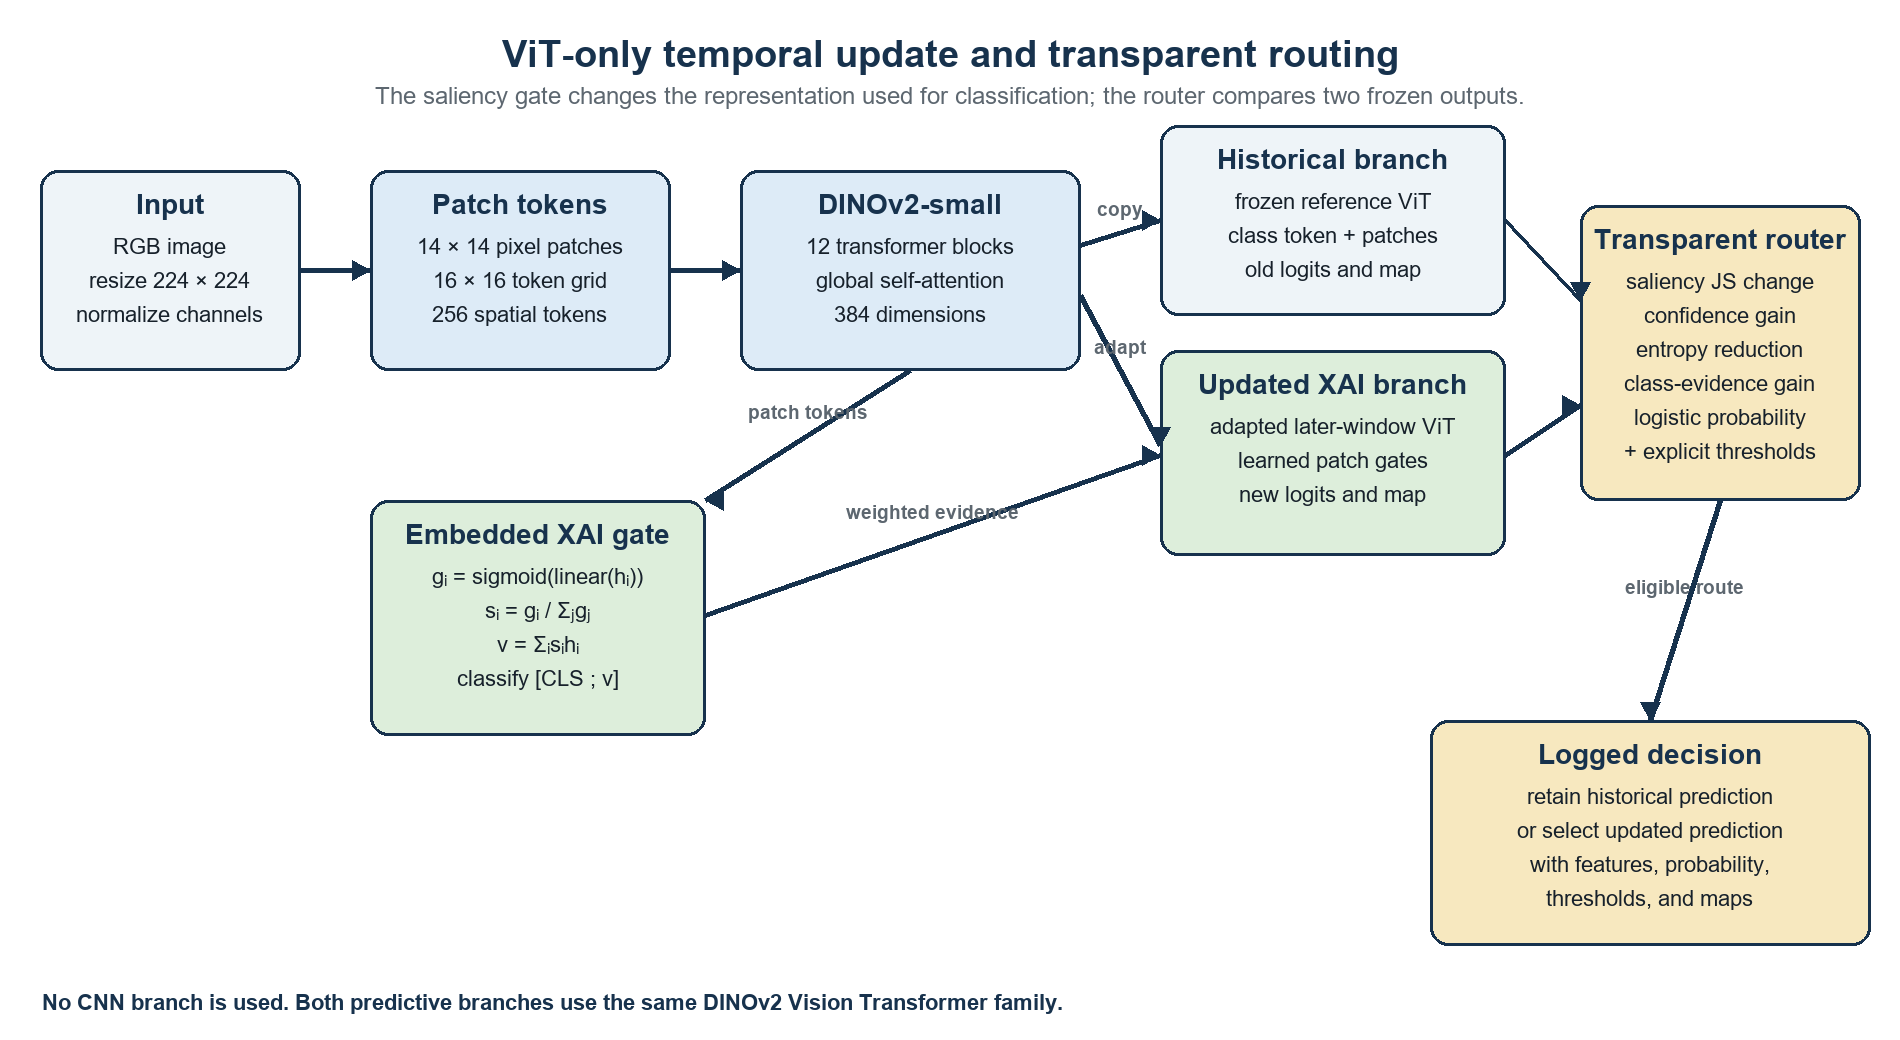
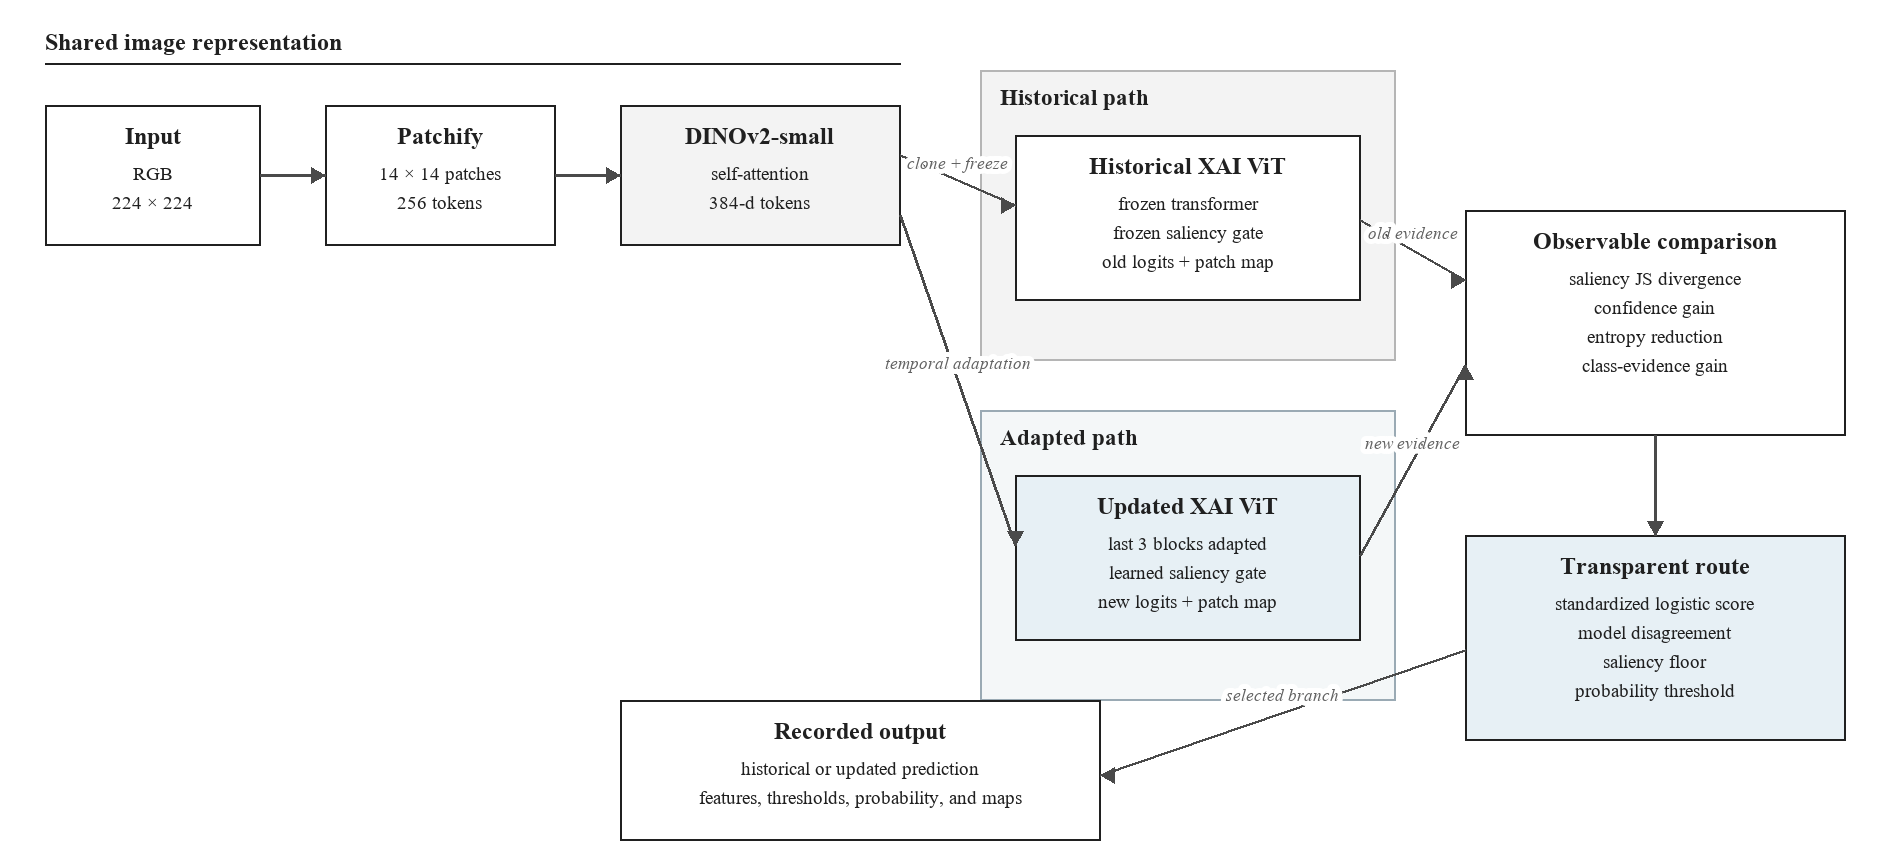
Refine figures and log drift evaluation

diff --git a/scripts/build_architecture_diagram.py b/scripts/build_architecture_diagram.py
@@ -1,74 +1,91 @@
-"""Build the paper's ViT-only architecture overview as a high-resolution PNG."""
+"""Build a restrained, publication-style architecture schematic."""
 from pathlib import Path
 
 from PIL import Image, ImageDraw, ImageFont
 
 
 OUTPUT = Path(__file__).resolve().parents[1] / "reports" / "transparent_router" / "architecture_overview.png"
-NAVY = "#17324D"
-BLUE = "#DDEBF7"
-PALE = "#EEF4F8"
-GREEN = "#DDEEDB"
-GOLD = "#F7E8BF"
-GRAY = "#5D6770"
+INK = "#202020"
+MID = "#626262"
+LINE = "#4A4A4A"
+LANE = "#F3F3F3"
+XAI = "#E7F0F5"
 
 
-def font(size, bold=False):
-    name = "arialbd.ttf" if bold else "arial.ttf"
+def font(size, bold=False, italic=False):
+    if bold:
+        name = "timesbd.ttf"
+    elif italic:
+        name = "timesi.ttf"
+    else:
+        name = "times.ttf"
     return ImageFont.truetype(f"C:/Windows/Fonts/{name}", size)
 
 
-def box(draw, xy, title, lines, fill):
-    draw.rounded_rectangle(xy, radius=18, fill=fill, outline=NAVY, width=3)
+def text_center(draw, xy, value, size=22, bold=False, fill=INK):
+    draw.text(xy, value, font=font(size, bold=bold), fill=fill, anchor="mm")
+
+
+def box(draw, xy, title, lines=(), fill="white", width=2):
+    draw.rectangle(xy, fill=fill, outline=INK, width=width)
     x1, y1, x2, _ = xy
-    draw.text(((x1 + x2) / 2, y1 + 18), title, font=font(28, True), fill=NAVY, anchor="ma")
-    for offset, line in enumerate(lines):
-        draw.text(((x1 + x2) / 2, y1 + 64 + offset * 34), line, font=font(22), fill="#17212B", anchor="ma")
+    text_center(draw, ((x1 + x2) / 2, y1 + 31), title, 24, True)
+    for row, line in enumerate(lines):
+        text_center(draw, ((x1 + x2) / 2, y1 + 69 + row * 29), line, 19)
 
 
 def arrow(draw, start, end, label=None):
-    draw.line((start, end), fill=NAVY, width=5)
+    draw.line((start, end), fill=LINE, width=3)
     ex, ey = end
     sx, sy = start
     if abs(ex - sx) >= abs(ey - sy):
         sign = 1 if ex > sx else -1
-        draw.polygon([(ex, ey), (ex - sign * 18, ey - 10), (ex - sign * 18, ey + 10)], fill=NAVY)
+        draw.polygon([(ex, ey), (ex - sign * 14, ey - 8), (ex - sign * 14, ey + 8)], fill=LINE)
     else:
         sign = 1 if ey > sy else -1
-        draw.polygon([(ex, ey), (ex - 10, ey - sign * 18), (ex + 10, ey - sign * 18)], fill=NAVY)
+        draw.polygon([(ex, ey), (ex - 8, ey - sign * 14), (ex + 8, ey - sign * 14)], fill=LINE)
     if label:
-        draw.text(((sx + ex) / 2, (sy + ey) / 2 - 16), label, font=font(19, True), fill=GRAY, anchor="ms")
+        draw.text(((sx + ex) / 2, (sy + ey) / 2 - 11), label,
+                  font=font(17, italic=True), fill=MID, anchor="ms",
+                  stroke_width=5, stroke_fill="white")
 
 
 def main():
-    image = Image.new("RGB", (1900, 1040), "white")
+    image = Image.new("RGB", (1900, 865), "white")
     draw = ImageDraw.Draw(image)
-    draw.text((950, 32), "ViT-only temporal update and transparent routing", font=font(38, True), fill=NAVY, anchor="ma")
-    draw.text((950, 82), "The saliency gate changes the representation used for classification; the router compares two frozen outputs.", font=font(24), fill=GRAY, anchor="ma")
 
-    box(draw, (40, 170, 300, 370), "Input", ["RGB image", "resize 224 × 224", "normalize channels"], PALE)
-    box(draw, (370, 170, 670, 370), "Patch tokens", ["14 × 14 pixel patches", "16 × 16 token grid", "256 spatial tokens"], BLUE)
-    box(draw, (740, 170, 1080, 370), "DINOv2-small", ["12 transformer blocks", "global self-attention", "384 dimensions"], BLUE)
-    arrow(draw, (300, 270), (370, 270))
-    arrow(draw, (670, 270), (740, 270))
+    draw.text((45, 28), "Shared image representation", font=font(24, True), fill=INK)
+    draw.line((45, 63, 900, 63), fill=INK, width=2)
+    box(draw, (45, 105, 260, 245), "Input", ("RGB", "224 × 224"))
+    box(draw, (325, 105, 555, 245), "Patchify", ("14 × 14 patches", "256 tokens"))
+    box(draw, (620, 105, 900, 245), "DINOv2-small", ("self-attention", "384-d tokens"), fill=LANE)
+    arrow(draw, (260, 175), (325, 175))
+    arrow(draw, (555, 175), (620, 175))
 
-    box(draw, (1160, 125, 1505, 315), "Historical branch", ["frozen reference ViT", "class token + patches", "old logits and map"], PALE)
-    box(draw, (1160, 350, 1505, 555), "Updated XAI branch", ["adapted later-window ViT", "learned patch gates", "new logits and map"], GREEN)
-    arrow(draw, (1080, 245), (1160, 220), "copy")
-    arrow(draw, (1080, 295), (1160, 445), "adapt")
+    draw.rectangle((980, 70, 1395, 360), fill=LANE, outline="#B5B5B5", width=2)
+    draw.text((1000, 84), "Historical path", font=font(23, True), fill=INK)
+    box(draw, (1015, 135, 1360, 300), "Historical XAI ViT",
+        ("frozen transformer", "frozen saliency gate", "old logits + patch map"))
 
-    box(draw, (370, 500, 705, 735), "Embedded XAI gate", ["gᵢ = sigmoid(linear(hᵢ))", "sᵢ = gᵢ / Σⱼgⱼ", "v = Σᵢsᵢhᵢ", "classify [CLS ; v]"], GREEN)
-    arrow(draw, (910, 370), (705, 500), "patch tokens")
-    arrow(draw, (705, 615), (1160, 455), "weighted evidence")
+    draw.rectangle((980, 410, 1395, 700), fill="#F4F7F8", outline="#9AAAB4", width=2)
+    draw.text((1000, 424), "Adapted path", font=font(23, True), fill=INK)
+    box(draw, (1015, 475, 1360, 640), "Updated XAI ViT",
+        ("last 3 blocks adapted", "learned saliency gate", "new logits + patch map"), fill=XAI)
+    arrow(draw, (900, 155), (1015, 205), "clone + freeze")
+    arrow(draw, (900, 215), (1015, 545), "temporal adaptation")
 
-    box(draw, (1580, 205, 1860, 500), "Transparent router", ["saliency JS change", "confidence gain", "entropy reduction", "class-evidence gain", "logistic probability", "+ explicit thresholds"], GOLD)
-    arrow(draw, (1505, 220), (1580, 300))
-    arrow(draw, (1505, 455), (1580, 405))
+    box(draw, (1465, 210, 1845, 435), "Observable comparison",
+        ("saliency JS divergence", "confidence gain", "entropy reduction", "class-evidence gain"))
+    arrow(draw, (1360, 220), (1465, 280), "old evidence")
+    arrow(draw, (1360, 555), (1465, 365), "new evidence")
 
-    box(draw, (1430, 720, 1870, 945), "Logged decision", ["retain historical prediction", "or select updated prediction", "with features, probability,", "thresholds, and maps"], GOLD)
-    arrow(draw, (1720, 500), (1650, 720), "eligible route")
+    box(draw, (1465, 535, 1845, 740), "Transparent route",
+        ("standardized logistic score", "model disagreement", "saliency floor", "probability threshold"), fill=XAI)
+    arrow(draw, (1655, 435), (1655, 535))
 
-    draw.text((42, 990), "No CNN branch is used. Both predictive branches use the same DINOv2 Vision Transformer family.", font=font(22, True), fill=NAVY)
+    box(draw, (620, 700, 1100, 840), "Recorded output",
+        ("historical or updated prediction", "features, thresholds, probability, and maps"))
+    arrow(draw, (1465, 650), (1100, 775), "selected branch")
     OUTPUT.parent.mkdir(parents=True, exist_ok=True)
     image.save(OUTPUT, optimize=True)
     print(OUTPUT)

diff --git a/audit_counterexamples.py b/audit_counterexamples.py
@@ -15,7 +15,7 @@ from pathlib import Path
 
 import numpy as np
 import torch
-from PIL import Image, ImageDraw
+from PIL import Image, ImageDraw, ImageFont
 from torch.utils.data import DataLoader, Dataset
 from tqdm.auto import tqdm
 
@@ -26,7 +26,18 @@ from siamese import ViTTwinRouter
 from transparent_router import FEATURES, apply_policy
 
 
-SALIENCY_OVERLAY_STRENGTH = 0.35
+SALIENCY_OVERLAY_STRENGTH = 0.28
+SALIENCY_COLOR = (213, 94, 0)
+
+
+def figure_font(size=14, bold=False):
+    names = ("timesbd.ttf", "DejaVuSerif-Bold.ttf") if bold else ("times.ttf", "DejaVuSerif.ttf")
+    roots = (Path("C:/Windows/Fonts"), Path("/usr/share/fonts/truetype/dejavu"))
+    for root, name in zip(roots, names):
+        candidate = root / name
+        if candidate.is_file():
+            return ImageFont.truetype(candidate, size)
+    return ImageFont.load_default(size=size)
 
 
 class IndexedDataset(Dataset):
@@ -56,7 +67,7 @@ def overlay(base, weights):
     heat = Image.fromarray((255 * heat / max(float(heat.max()), 1e-8)).astype(np.uint8)).resize(
         base.size, Image.Resampling.BILINEAR)
     return Image.composite(
-        Image.new("RGB", base.size, (255, 20, 20)),
+        Image.new("RGB", base.size, SALIENCY_COLOR),
         base,
         heat.point(lambda value: int(value * SALIENCY_OVERLAY_STRENGTH)),
     )
@@ -113,18 +124,19 @@ def save_panel(path, clean_image, drift_image, comparison, new_salient, new_cont
     shifted_name = row["scenario"].replace("_", " ")
     if row.get("drift_components"):
         shifted_name += ": " + row["drift_components"].replace("+", ", ")
-    names = ("clean", shifted_name, "old saliency", "new saliency",
-             "delete new top 20%", "delete new bottom 20%")
-    canvas = Image.new("RGB", (224 * len(panels), 300), "white")
+    names = ("(a) Clean", f"(b) {shifted_name}", "(c) Historical evidence",
+             "(d) Updated evidence", "(e) Remove top 20%", "(f) Remove bottom 20%")
+    canvas = Image.new("RGB", (224 * len(panels), 316), "white")
     draw = ImageDraw.Draw(canvas)
     for position, (panel, name) in enumerate(zip(panels, names)):
-        canvas.paste(panel, (position * 224, 28))
-        draw.text((position * 224 + 4, 7), name, fill="black")
+        canvas.paste(panel, (position * 224, 30))
+        draw.text((position * 224 + 6, 7), name, font=figure_font(13), fill="black")
     summary = (f"{row['outcome']} | sample {row['dataset_index']} | true {row['true_class']} | "
                f"old {row['old_class']} | new {row['new_class']} | routed {row['routed_class']} | "
                f"p(route) {row['route_probability']:.3f} | JS {row['saliency_js']:.4f} | "
                f"new deletion margin {row['new_faithfulness_margin']:+.3f}")
-    draw.text((4, 258), summary, fill="black")
+    draw.line((0, 258, canvas.width, 258), fill="#BBBBBB", width=1)
+    draw.text((6, 267), summary, font=figure_font(13), fill="black")
     canvas.save(path, optimize=True)
 
 

diff --git a/export_router_report.py b/export_router_report.py
@@ -5,7 +5,7 @@ from pathlib import Path
 
 import numpy as np
 import torch
-from PIL import Image, ImageDraw
+from PIL import Image, ImageDraw, ImageFont
 
 from data import MEAN, STD, open_dataset
 from drift import (REALISTIC_BENCHMARK_SCENARIOS, SCENARIOS, drift_transform,
@@ -15,7 +15,18 @@ from siamese import ViTTwinRouter
 from transparent_router import apply_policy
 
 
-SALIENCY_OVERLAY_STRENGTH = 0.35
+SALIENCY_OVERLAY_STRENGTH = 0.28
+SALIENCY_COLOR = (213, 94, 0)
+
+
+def figure_font(size=14, bold=False):
+    names = ("timesbd.ttf", "DejaVuSerif-Bold.ttf") if bold else ("times.ttf", "DejaVuSerif.ttf")
+    roots = (Path("C:/Windows/Fonts"), Path("/usr/share/fonts/truetype/dejavu"))
+    for root, name in zip(roots, names):
+        candidate = root / name
+        if candidate.is_file():
+            return ImageFont.truetype(candidate, size)
+    return ImageFont.load_default(size=size)
 
 
 def rgb(tensor):
@@ -27,7 +38,7 @@ def overlay(base, weights):
     heat = weights.reshape(16, 16).detach().cpu().numpy()
     heat = Image.fromarray((255 * heat / max(heat.max(), 1e-8)).astype(np.uint8)).resize(base.size)
     return Image.composite(
-        Image.new("RGB", base.size, (255, 25, 25)),
+        Image.new("RGB", base.size, SALIENCY_COLOR),
         base,
         heat.point(lambda value: int(value * SALIENCY_OVERLAY_STRENGTH)),
     )
@@ -72,11 +83,17 @@ def main():
             clean_rgb, shifted_rgb = rgb(clean_image), rgb(image)
             panels = [clean_rgb, shifted_rgb, overlay(shifted_rgb, comparison["old_map"][0]),
                       overlay(shifted_rgb, comparison["new_map"][0])]
-            canvas = Image.new("RGB", (896, 250), "white")
-            names = ("clean", scenario, "old saliency", "new saliency")
+            canvas = Image.new("RGB", (896, 282), "white")
+            names = ("(a) Clean reference", f"(b) {scenario.replace('_', ' ')}",
+                     "(c) Historical evidence", "(d) Updated evidence")
             draw = ImageDraw.Draw(canvas)
             for position, (panel, name) in enumerate(zip(panels, names)):
-                canvas.paste(panel, (position * 224, 26)); draw.text((position * 224 + 4, 5), name, fill="black")
+                canvas.paste(panel, (position * 224, 28))
+                draw.text((position * 224 + 6, 6), name, font=figure_font(14), fill="black")
+            footer = (f"sample {index}   true {int(label)}   old {int(comparison['old_logits'].argmax(1)[0])}   "
+                      f"new {int(comparison['new_logits'].argmax(1)[0])}   routed {int(routed[0])}   "
+                      f"route probability {float(probability[0]):.3f}")
+            draw.text((6, 258), footer, font=figure_font(13), fill="black")
             path = folder / f"sample_{offset:04d}.png"
             canvas.save(path, optimize=True)
             records.append({"scenario": scenario, "year": year, "severity": 0 if scenario == "clean" else severity,

diff --git a/train_siamese.py b/train_siamese.py
@@ -298,6 +298,10 @@ def main():
         for scenario in args.drift_scenarios:
             drift_results[scenario] = {}
             for severity, year in enumerate(args.test_years, 1):
+                progress_event = {"event": "drift_eval_start", "scenario": scenario,
+                                  "year": year, "severity": 0 if scenario == "clean" else severity}
+                store.log(progress_event)
+                print(json.dumps(progress_event), flush=True)
                 subset = dataset.get_subset(test_split, transform=drift_transform(scenario, severity, args.seed))
                 indices = torch.where(subset.metadata_array[:, year_column] == year - 2002)[0].tolist()
                 if args.limit_test:
@@ -314,6 +318,20 @@ def main():
                 drift_results[scenario][str(year)] = {
                     "severity": 0 if scenario == "clean" else severity,
                     "results": scenario_report}
+                completed_event = {
+                    "event": "drift_eval_complete", "scenario": scenario, "year": year,
+                    "severity": 0 if scenario == "clean" else severity,
+                    "old_macro_f1": scenario_report["all"]["old"]["macro_f1"],
+                    "new_macro_f1": scenario_report["all"]["new"]["macro_f1"],
+                    "routed_macro_f1": scenario_report["all"]["routed"]["macro_f1"],
+                    "helpful_routes": scenario_report["all"]["helpful_routes"],
+                    "harmful_routes": scenario_report["all"]["harmful_routes"],
+                }
+                store.log(completed_event)
+                print(json.dumps(completed_event), flush=True)
+                store.write_json("metrics/future_drift.partial.json", {
+                    "compound_shift_held_out": True, "test_years": args.test_years,
+                    "scenarios": drift_results})
         store.write_json("metrics/future_drift.json", {
             "compound_shift_held_out": True, "test_years": args.test_years,
             "scenarios": drift_results})

diff --git a/show_siamese.py b/show_siamese.py
@@ -12,7 +12,7 @@ from model import TemporalViT
 from siamese import ViTTwinRouter
 
 
-SALIENCY_OVERLAY_STRENGTH = 0.35
+SALIENCY_OVERLAY_STRENGTH = 0.28
 
 
 def overlay(base, weights):
@@ -20,7 +20,7 @@ def overlay(base, weights):
     heat = Image.fromarray((255 * heat / max(heat.max(), 1e-8)).astype(np.uint8))
     heat = heat.resize(base.size, Image.Resampling.BILINEAR)
     return Image.composite(
-        Image.new("RGB", base.size, (255, 25, 25)),
+        Image.new("RGB", base.size, (213, 94, 0)),
         base,
         heat.point(lambda value: int(value * SALIENCY_OVERLAY_STRENGTH)),
     )

diff --git a/show_saliency.py b/show_saliency.py
@@ -10,7 +10,7 @@ from data import MEAN, STD, make_loaders
 from model import TemporalViT
 
 
-SALIENCY_OVERLAY_STRENGTH = 0.35
+SALIENCY_OVERLAY_STRENGTH = 0.28
 
 
 def main():
@@ -36,7 +36,7 @@ def main():
     heat = saliency[0].reshape(16, 16).cpu().numpy()
     heat = (255 * heat / max(heat.max(), 1e-8)).astype(np.uint8)
     heat = Image.fromarray(heat).resize(base.size, Image.Resampling.BILINEAR)
-    red = Image.new("RGB", base.size, (255, 30, 30))
+    red = Image.new("RGB", base.size, (213, 94, 0))
     overlay = Image.composite(
         red,
         base,
